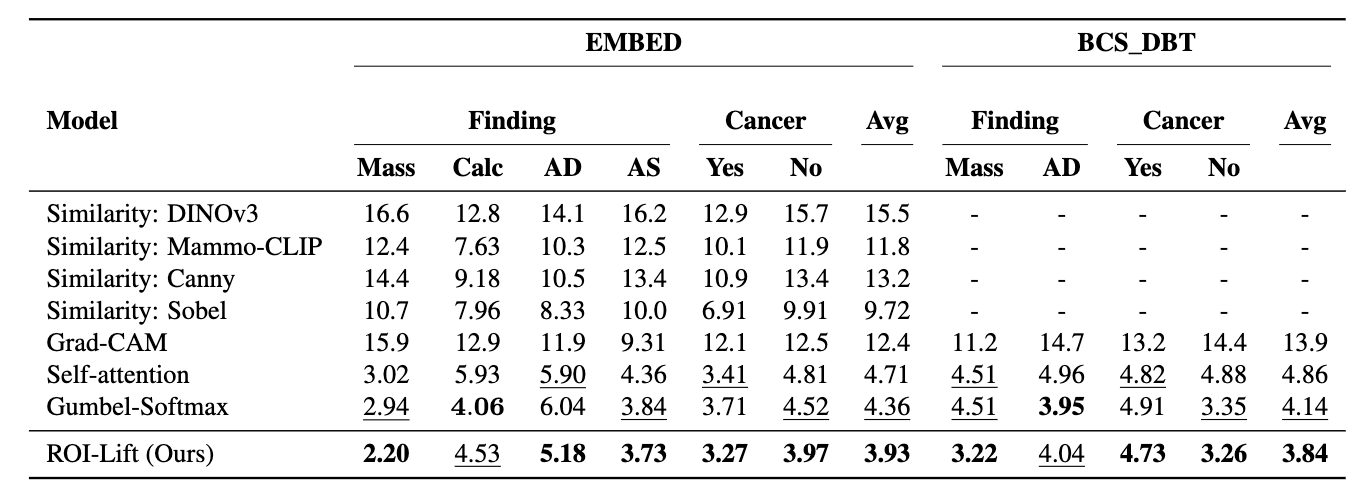
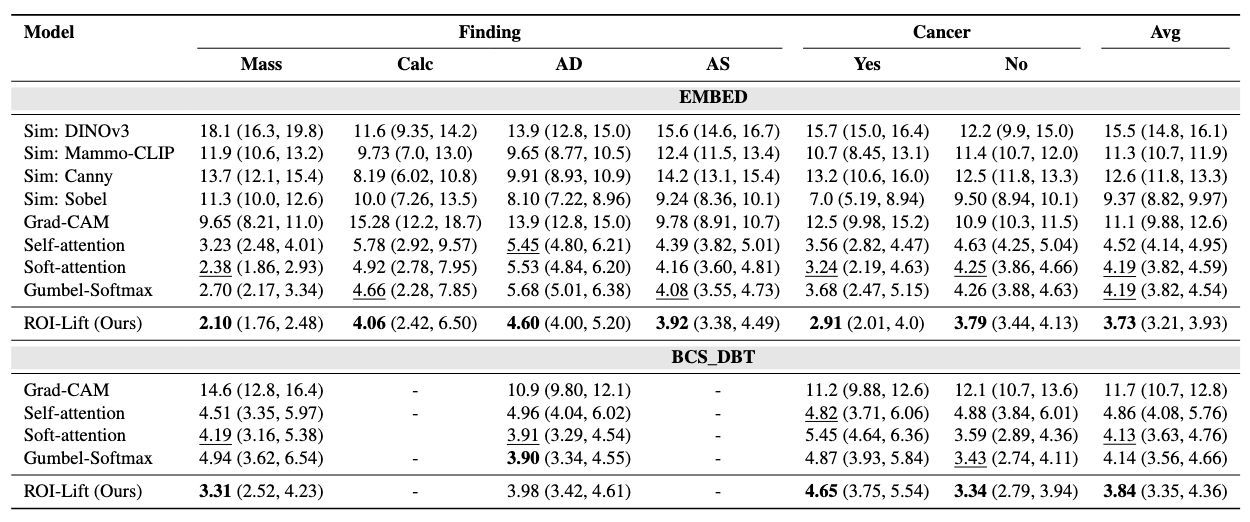
update_readme

diff --git a/readme.md b/readme.md
@@ -1,26 +1,24 @@
 # <div align="center"> ROI-Lift:<br>Learning to Lift the 2D Mammogram ROI to 3D Tomosynthesis ROI without 3D Annotations </div>
 
-[xxx](xxxx)
-, [xxx](xxx)
-, [xxx](xxx),
-[xxx](xxx)
+[Young Seok Jeon <sup>1</sup>](https://scholar.google.com/citations?user=ppl10bsAAAAJ&hl=en),
+Beatrice Brown-Mulry <sup>1</sup>,
+Rohan Isaac <sup>1</sup>,
+Frank Li <sup>1</sup>,
+Christian Fauria-Robinson <sup>1</sup>,
+Hao Du <sup>2</sup>,
+Theo Dapamede <sup>1</sup>, 
+Mohammadreza Chavoshi <sup>1</sup>,
+Aawez Mansuri <sup>1</sup>,
+Chiratidzo Sanyika <sup>1</sup>,
+Judy Gichoya <sup>1</sup>,
+Hari Trivedi <sup>1</sup>,
 <br/>
-<sup>1</sup>xxx, <sup>2</sup> xxx
----
+<br/>
+<sup>1</sup> Department of Radiology, Emory University, Atlanta, GA, USA
+<br/>
+<sup>2</sup> Beijing University of Aeronautics and Astronautics, Beijing, China 
 
-## Table of Contents
-1. [Model Overview](#model-overview)
-2. [Quick Run with Hugginface](#quick-run-with-huggingface)
-3. [Environment Setup](#environment-setup)
-4. [ROI-Lift checkpoints](#roi-lift-checkpoints)
-5. [ROI-Lift inference](#roi-lift-inference)
-6. [Data Download](#data-download)
-7. [Pre-processing](#pre-processing)
-8. [Traning ROI-Lift](#training-roi-lift)
-8. [Inference with ROI-Lift](#Inference-with-roi-lift)
-9. [Citation](#citation)
-10. [License and Copyright](#license-and-copyright)
-11. [Contact](#contact)
+---
 
 ## Model Overview
 
@@ -31,7 +29,7 @@
 </p>
 
 <p align="center" style="font-size: 20px;">
-    <sub><b>Figure 1.</b> Can AI learn where a lesion lies in depth? FFDM supports rapid localization of suspicious regions (red box) but often obscures lesion boundaries due to overlapping tissue. DBT mitigates this by providing a pseudo‑3D, slice‑by‑slice view at the cost of nearly doubling reading time. ROI‑Lift aims to automatically identify the valid depth region where the lesion lies, reducing the need for manual DBT navigation.</sub>
+    <sub><b>Figure 1.</b> Can AI learn where the lesion lies in depth? Although FFDM allows quick localization of suspicious areas (red box), it often suffers from obscured lesion boundaries caused by overlapping tissue artifacts. DBT addresses this limitation by providing a pseudo-3D view that allows slice-by-slice assessment, but at the cost of nearly doubling reading time. This raises the question: "can we train a model to automatically identify the valid depth region where the lesion lies?"</sub>
 </p>
 
 ### Method
@@ -212,7 +210,7 @@ We provide a Jupyter Notebook which runs ROI-Lift on one of BCS_DBT data. The sa
 
 ## Citation
 ```
-xxx
+TBU
 ```
 
 ## License and Copyright
@@ -225,11 +223,11 @@ Indicate if changes were made.
 Distribute any derivative works under the same license (CC BY-NC-SA 4.0).
 Commercial use, including model deployment, integration into for-profit products or services, or sale of derivatives, is strictly prohibited.
 
-Copyright © [xxx Lab](xxx), 2025
+Copyright © [HITI Lab](https://data.hitilab.com/), 2025
 License text: [Creative Commons BY-NC-SA 4.0](https://creativecommons.org/licenses/by-nc-sa/4.0/)
 
 ## Contact
-For any queries, contact xxx (email: xxx)
+For any queries, contact me (Young Seok **Jeon**) (email: youngseokjeon74@gmail.com)
 
 
 
